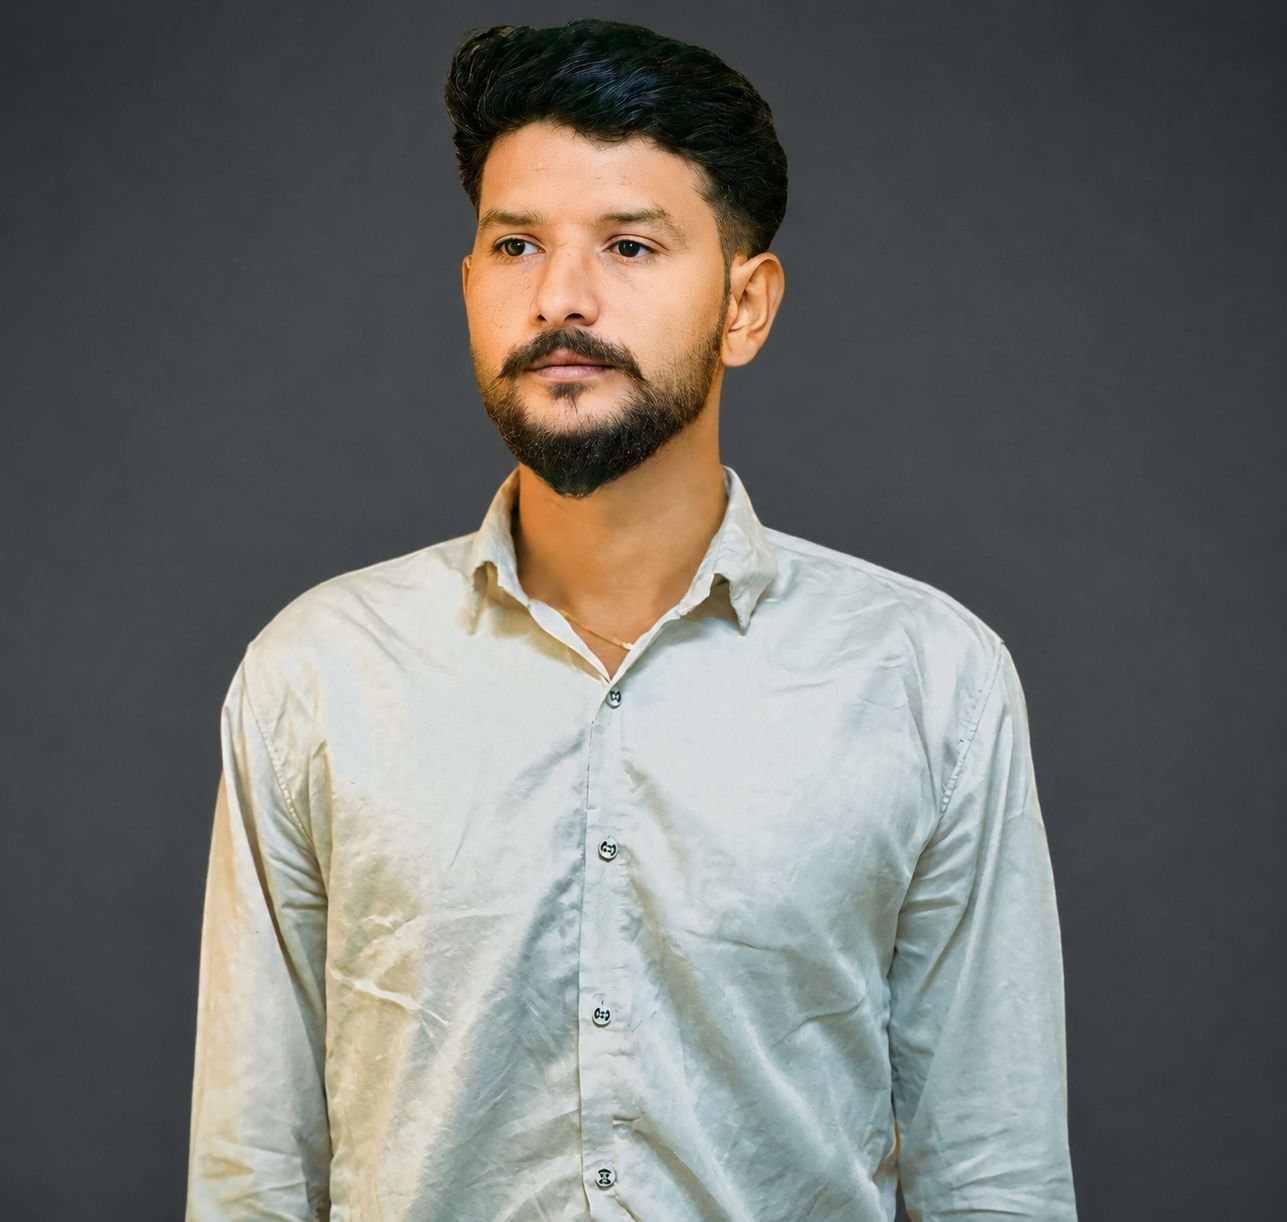
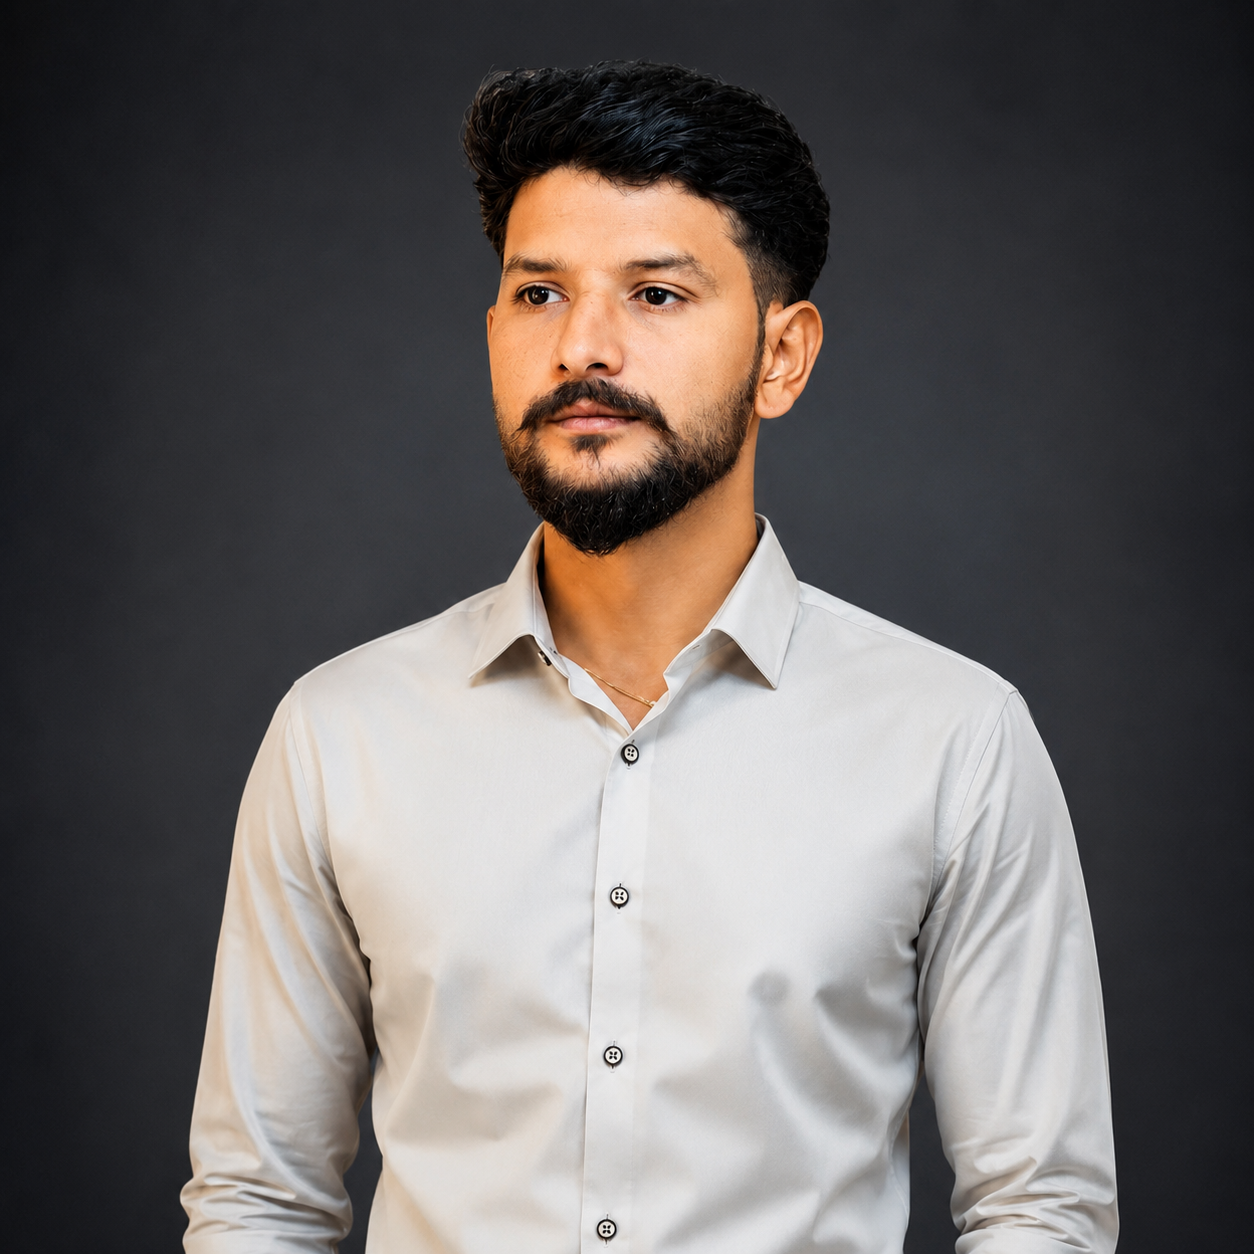
change profile

diff --git a/src/data/portfolio.ts b/src/data/portfolio.ts
@@ -54,8 +54,8 @@ export const projects = [
       "Created a fully responsive frontend with React",
     ],
     tags: ["React", "Node.js", "Express", "MongoDB", "Tailwind"],
-    demo: "#",
-    github: "https://github.com/akashYadav070",
+    demo: "https://self-drive-car.pages.dev",
+    github: "https://github.com/akashYadav070/Self-Drive-Car.git",
   },
   {
     title: "Hospital Management System",
@@ -68,16 +68,16 @@ export const projects = [
       "Secure CRUD operations across modules",
     ],
     tags: ["Node.js", "Express", "MongoDB"],
-     demo: "#",
-    github: "https://github.com/akashYadav070",
+     demo: "https://1df93343.hospital-management-system-bmu.pages.dev/",
+    github: "https://github.com/akashYadav070/Hospital-Management-System",
   },
 ];
 
 export const education = [
-  { degree: "MCA", school: "JECRC University", detail: "Present" },
-  { degree: "BCA", school: "University of Rajasthan", detail: "61%" },
-  { degree: "Senior Secondary (12th)", school: "RBSE", detail: "60%" },
-  { degree: "Secondary (10th)", school: "RBSE", detail: "50%" },
+  { degree: "MCA", school: "JECRC University" },
+  { degree: "BCA", school: "University of Rajasthan" },
+  { degree: "Senior Secondary (12th)", school: "RBSE" },
+  { degree: "Secondary (10th)", school: "RBSE" },
 ];
 
 export const languages = ["Hindi", "English", "Punjabi", "Haryanvi"];

diff --git a/src/routes/__root.tsx b/src/routes/__root.tsx
@@ -77,7 +77,7 @@ export const Route = createRootRouteWithContext<{ queryClient: QueryClient }>()(
       { name: "author", content: "Akash Yadav" },
       { property: "og:type", content: "website" },
       { name: "twitter:card", content: "summary" },
-      { name: "twitter:site", content: "@Lovable" },
+      
     ],
     links: [
       { rel: "preconnect", href: "https://fonts.googleapis.com" },